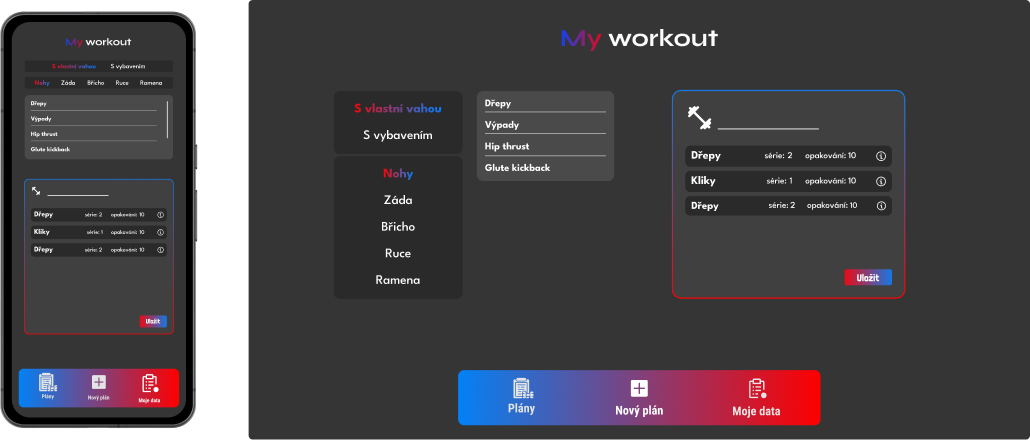
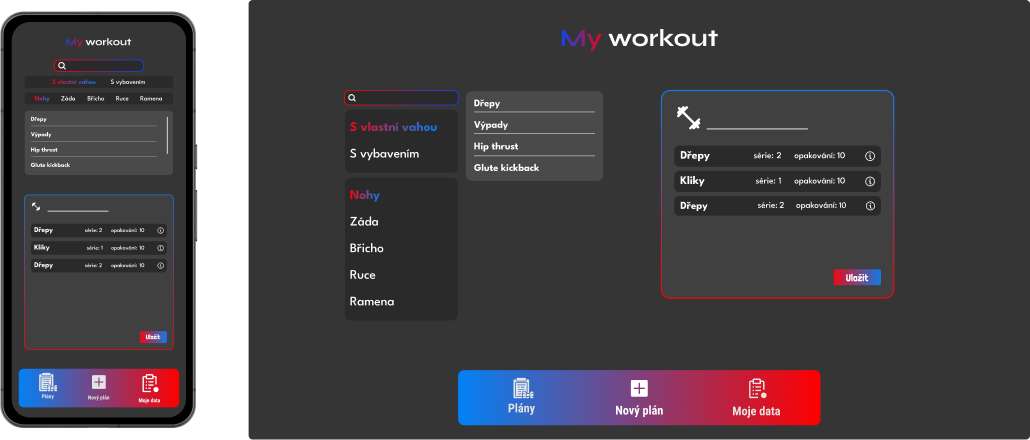
11/42

diff --git a/style.css b/style.css
@@ -166,8 +166,7 @@ img {width: 100%;}
 }
 
 .workout_wrapper {overflow-y: auto;}
-
-
+textarea {resize: none;}
 
 /*moje data*/
 
@@ -186,7 +185,7 @@ img {width: 100%;}
     color: var(--text);
     width: -webkit-fill-available;
 }
-.userName:focus {outline: none;}
+textarea:focus {outline: none;}
 .userName--workoutN {
     width: auto;
     margin-bottom: 0.5rem;
@@ -212,6 +211,30 @@ img {width: 100%;}
     height: 32px;
     background-repeat: no-repeat;
     background-size: contain;
+}
+.vyhledavani {
+    display: flex;
+    align-items: center;
+    gap: 1em;
+    background-color: var(--components);
+    height: 2em;
+    padding: 0 1rem;
+    border-radius: 1em;
+}
+.vyhledavani__img {width: 1rem;}
+.border--search {
+    position: relative;
+    transform: translate(-50%, 0);
+    left: 50%;
+    margin-bottom: 0.5rem;
+    border-radius: 2em;
+    width: 80%;
+}
+.vyhledavani__input {
+    background-color: transparent;
+    color: var(--text);
+    border: none;
+    width: auto;
 }
 
 .spendTime {
@@ -333,6 +356,15 @@ img {width: 100%;}
     }
     .workout__wrapper {max-height: 45dvh;}
     .workout__wrapper--novy {max-height: 15dvh;}
+    .vyhledavani {
+        gap: 0.5em;
+    }
+    .border--search {
+        transform: translate(0);
+        left: inherit;
+        width: 126px;
+    }
+    .vyhledavani__img {width: 2rem;}
     
 
 }

diff --git a/novyPlan.html b/novyPlan.html
@@ -23,6 +23,9 @@
             <div class="search__wrapper">
                 
                 <div class="search">
+                    <div class="border border--search">
+                        <div class="vyhledavani"><img class="vyhledavani__img" src="./icons/search.svg" alt="lupa"><textarea class="vyhledavani__input" name="vyhledavani" rows="1"></textarea></div>
+                    </div>
                     <div></div>
                     <div class="search__filter">
                         <a href="#" class="filter__item filter__item--1">S vlastní vahou</a><a href="#" class="filter__item filter__item--1">S vybavením</a>
